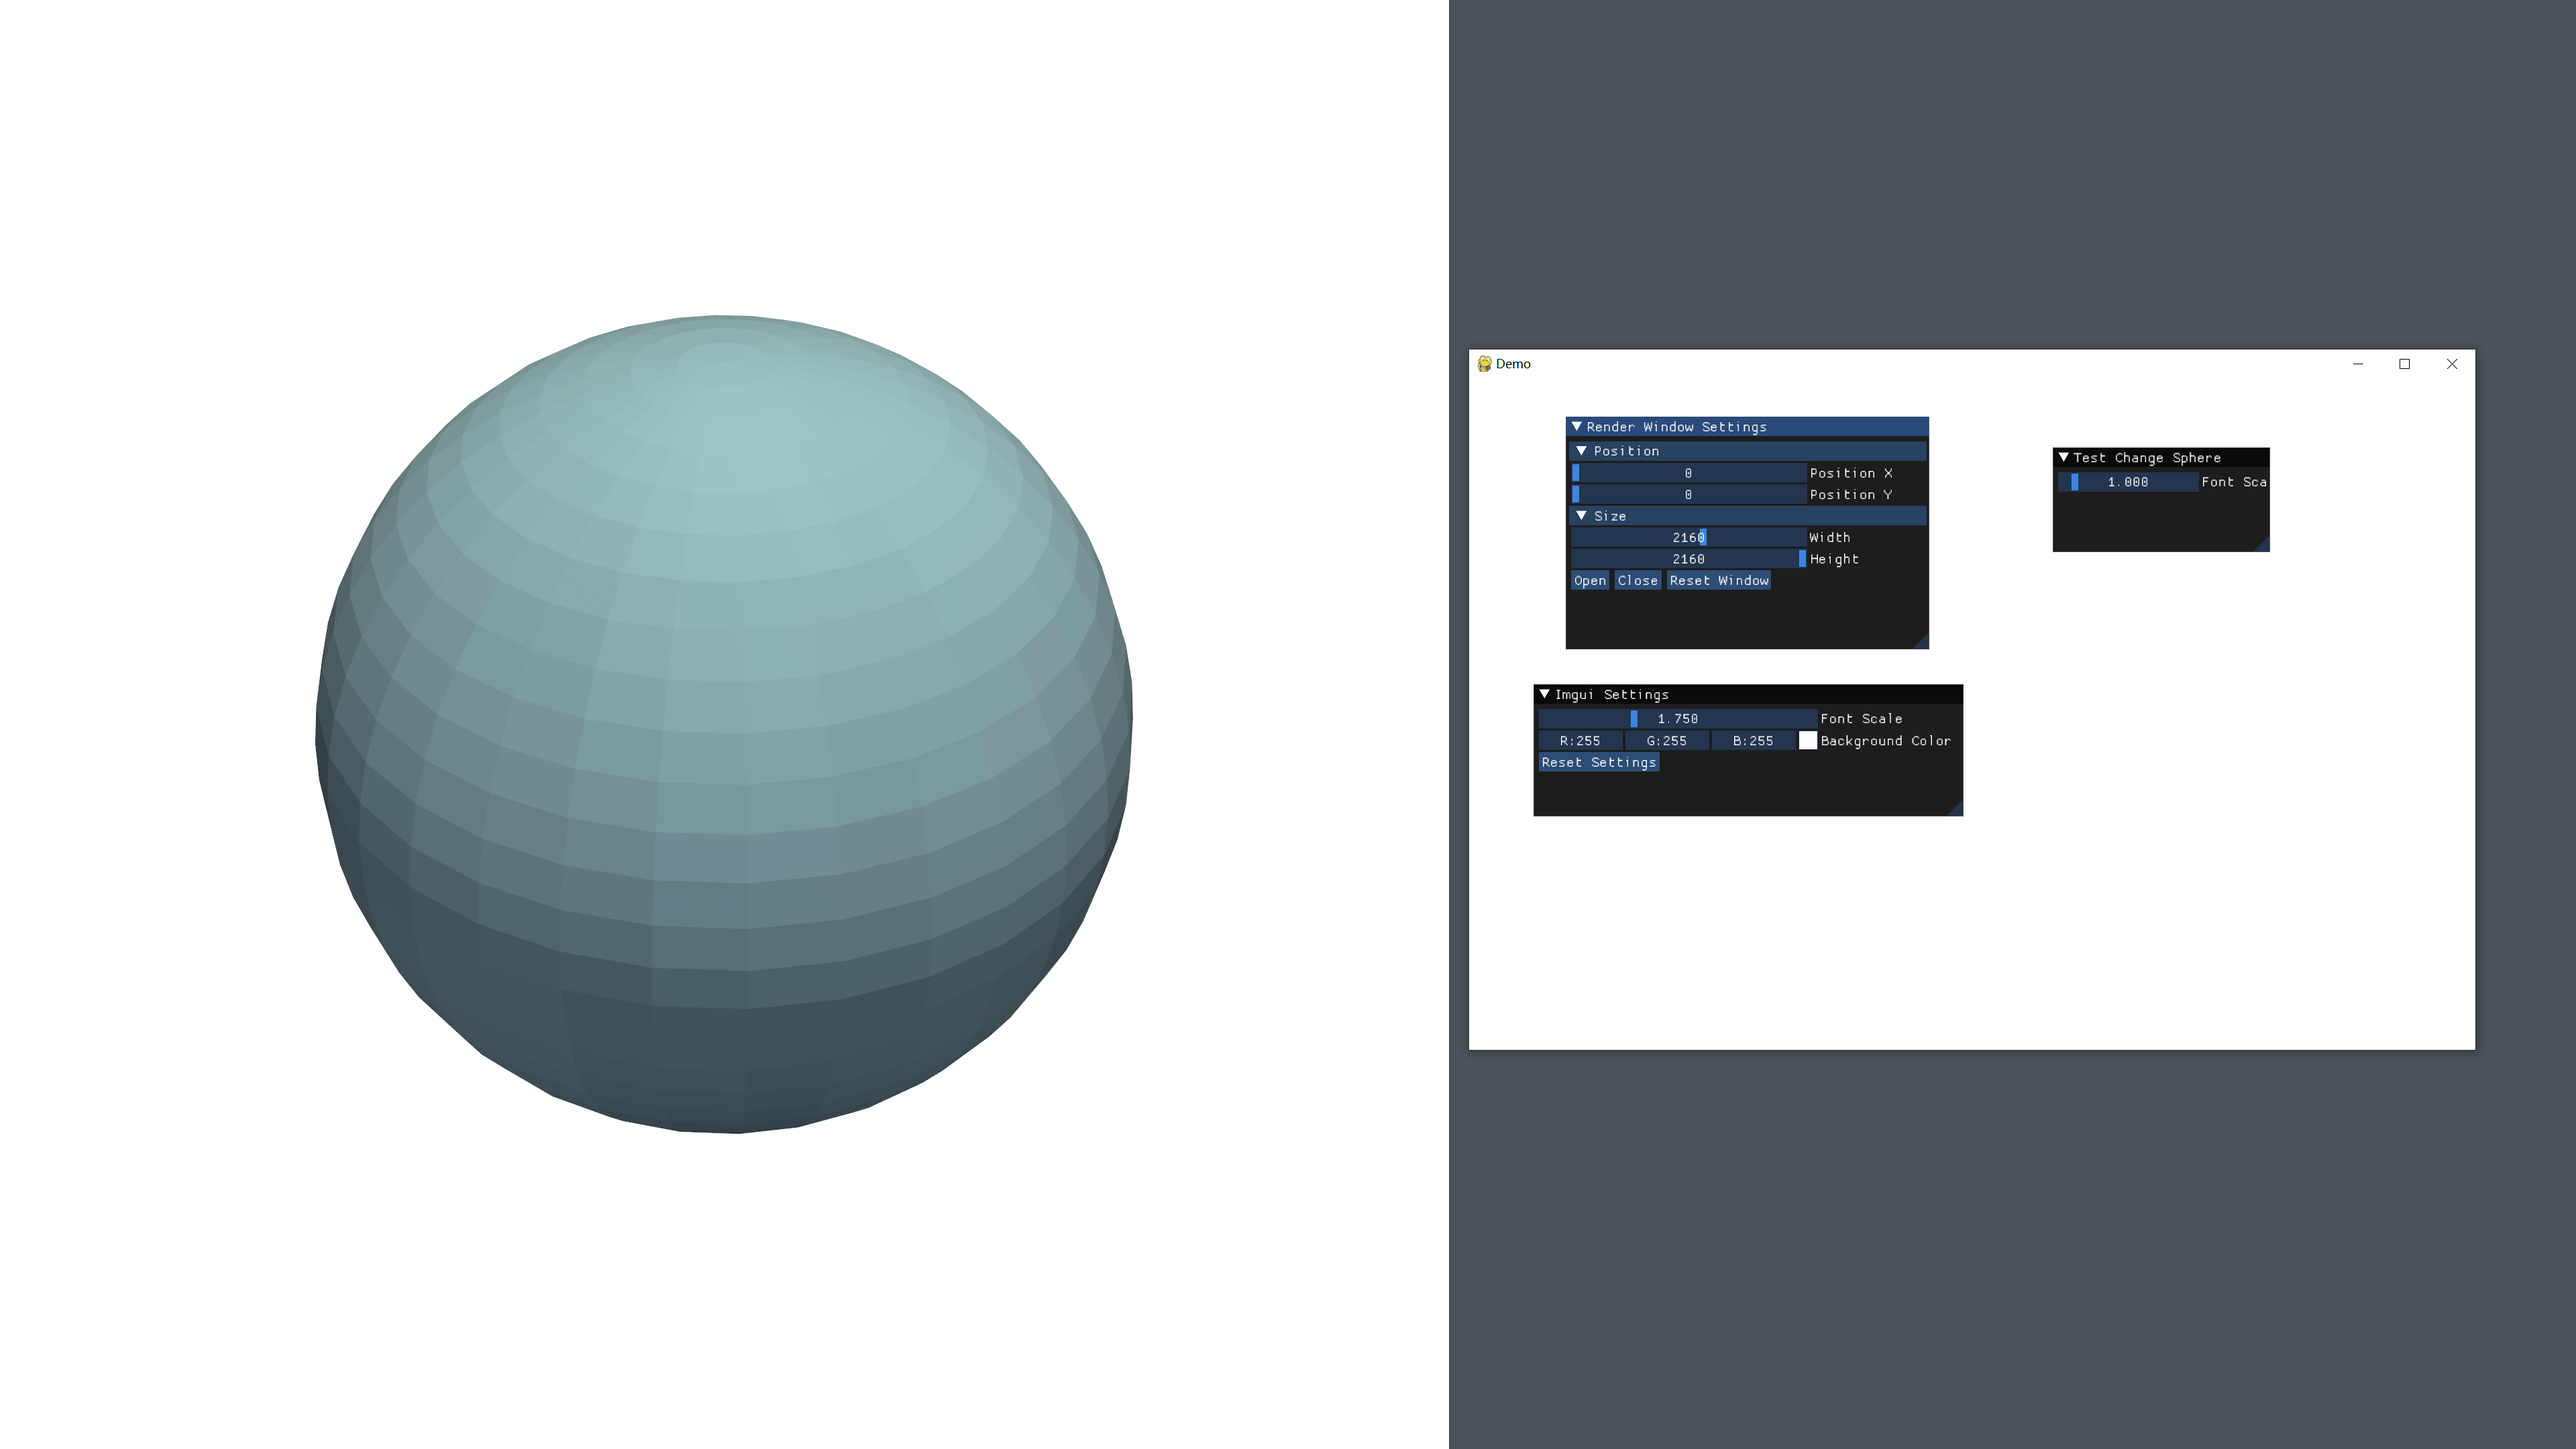
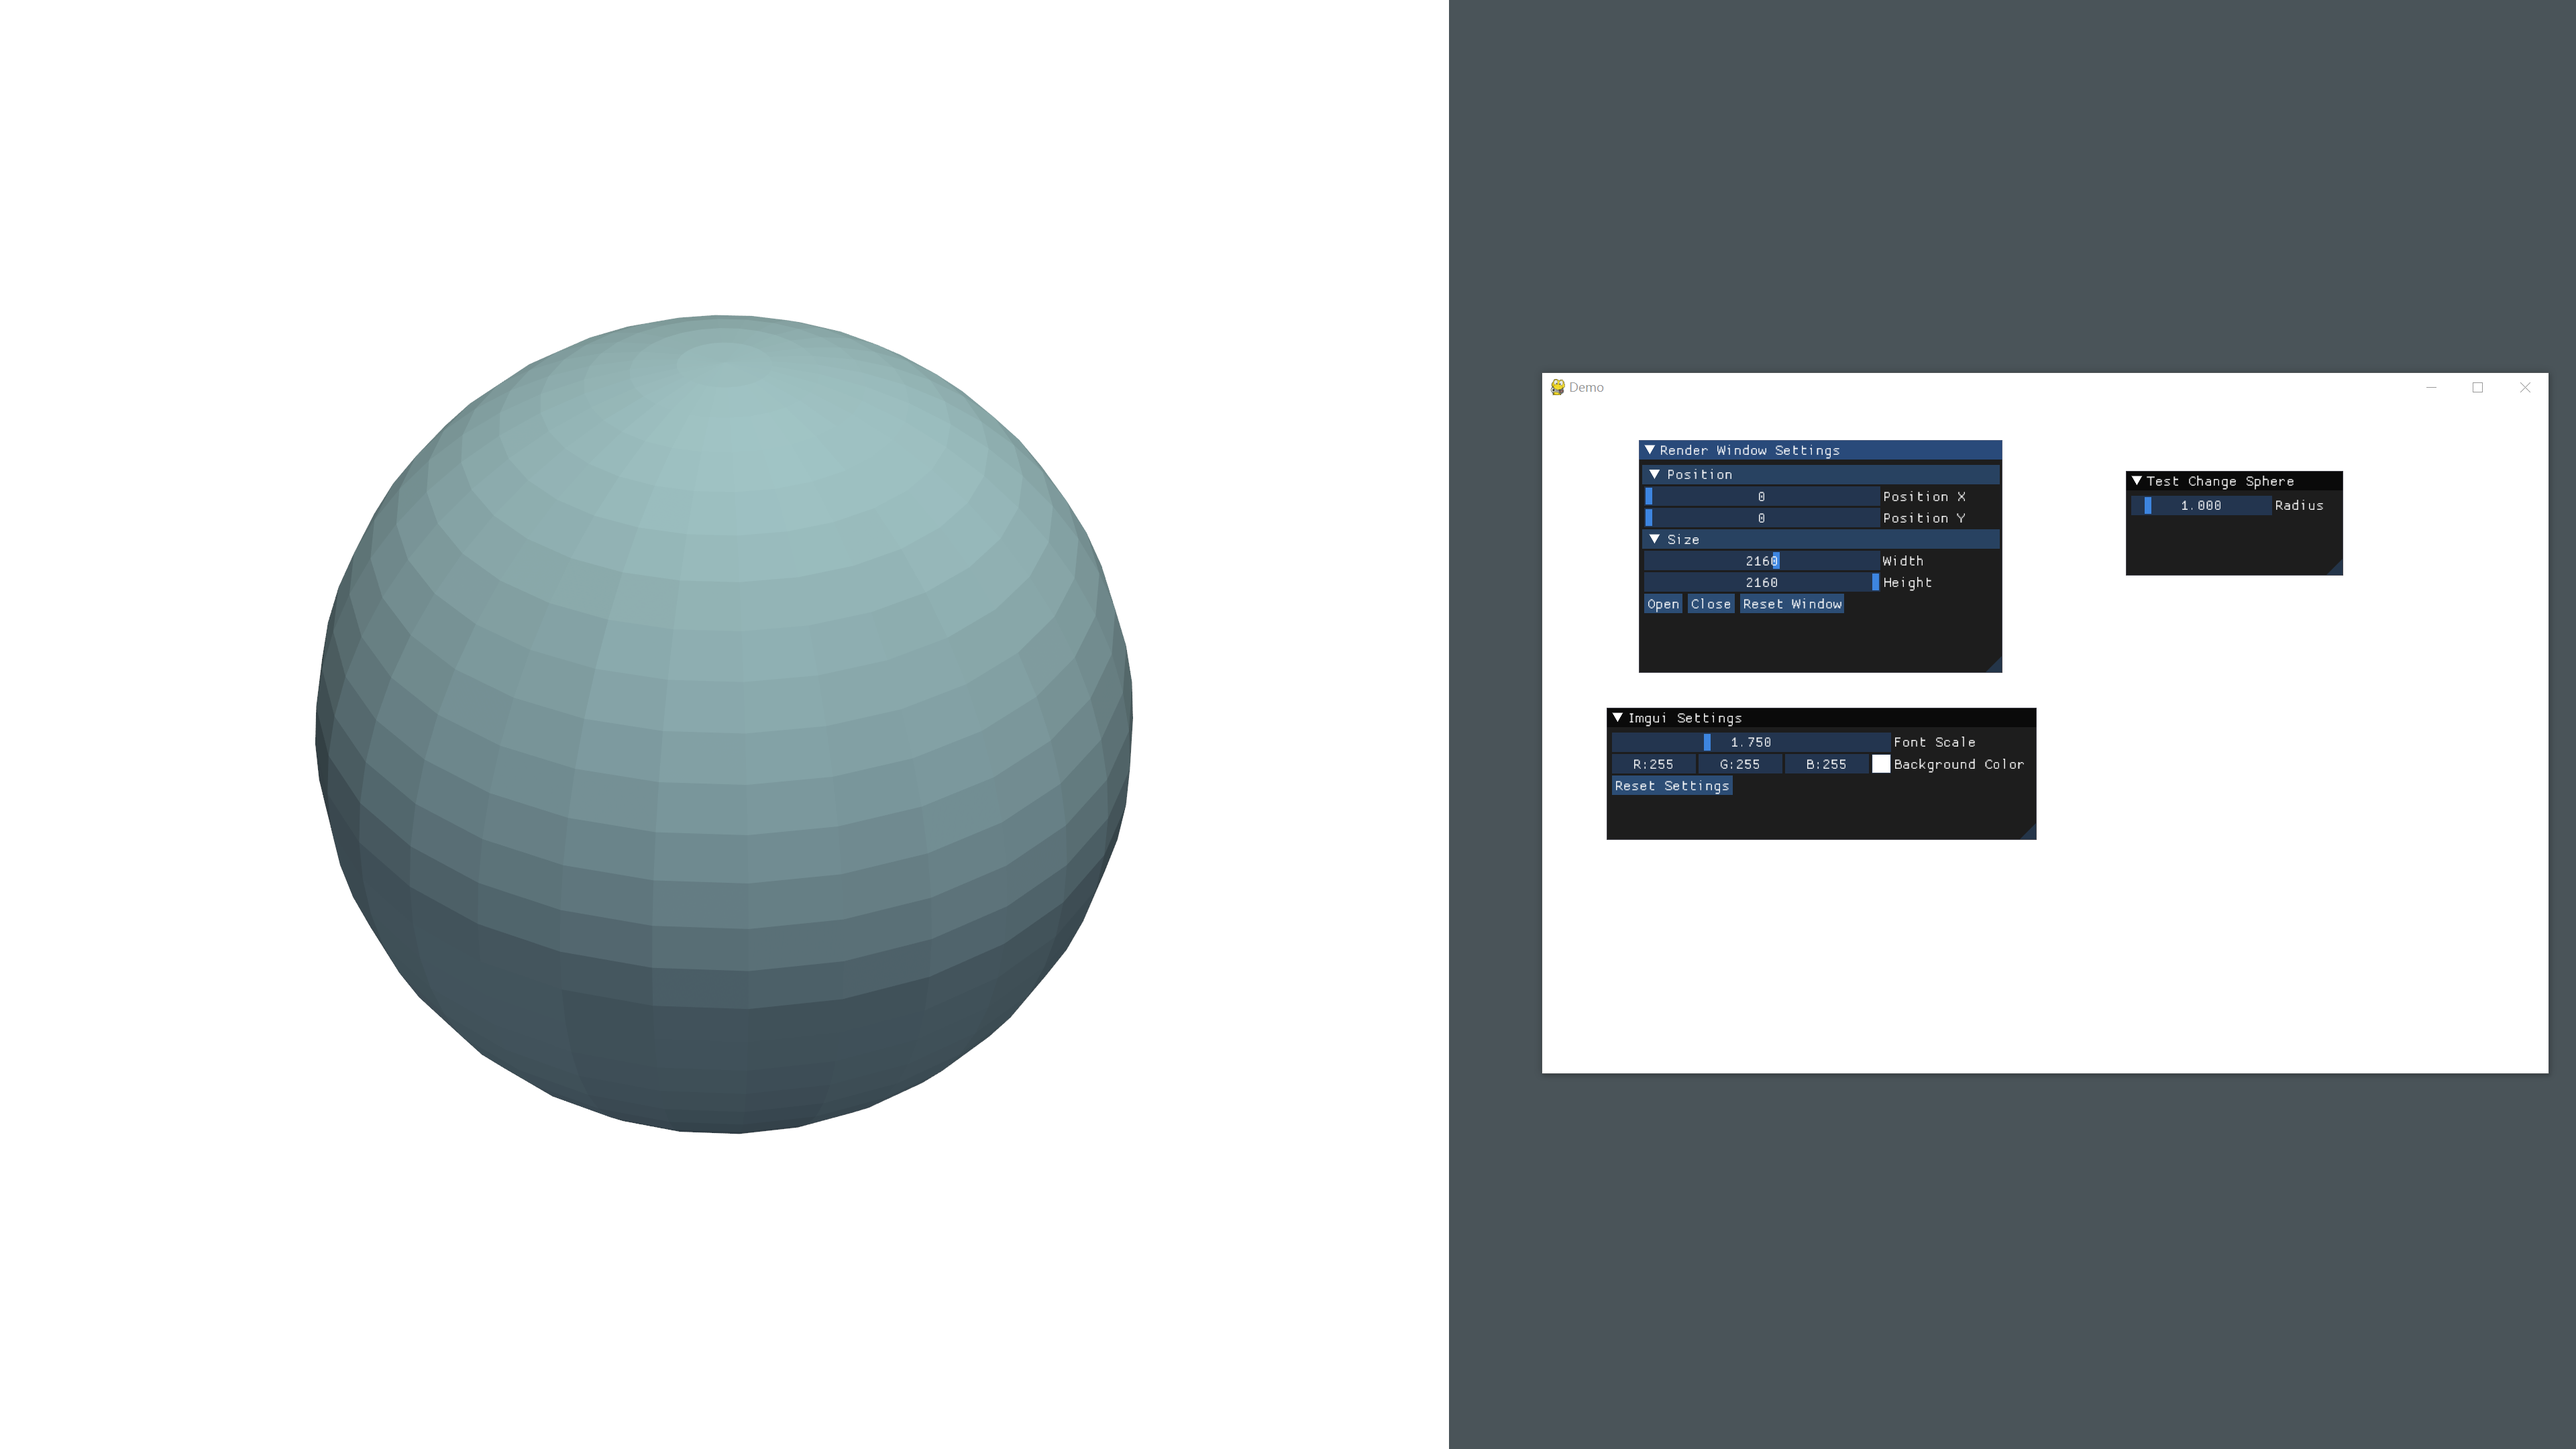
fix text

Changed region(s): [[0.5625, 0.2171, 1.0, 0.7444]]

diff --git a/test_pyvista_imgui.py b/test_pyvista_imgui.py
@@ -143,7 +143,7 @@ def main():
         is_expand, show_custom_window = imgui.begin("Test Change Sphere", False)
         imgui.set_window_font_scale(font_scale)
         if is_expand:
-            changed, pv_win.shpere_radius = imgui.slider_float("Font Scale", pv_win.shpere_radius, 0.1, 10)
+            changed, pv_win.shpere_radius = imgui.slider_float("Radius", pv_win.shpere_radius, 0.1, 10)
         imgui.end()
 
         # note: cannot use screen.fill((1, 1, 1)) because pygame's screen
